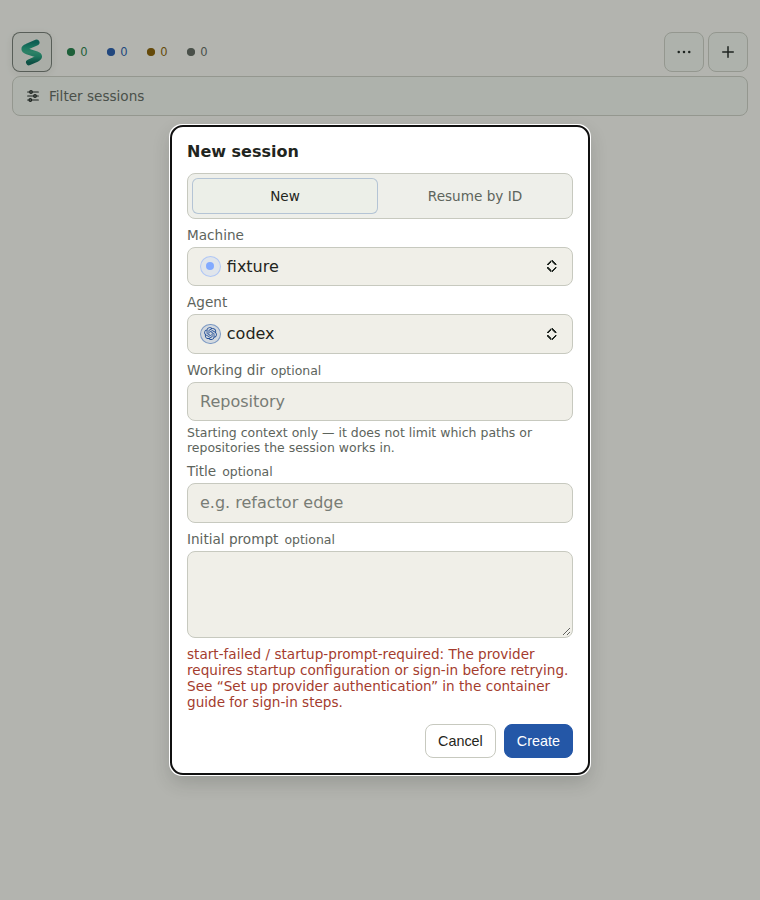
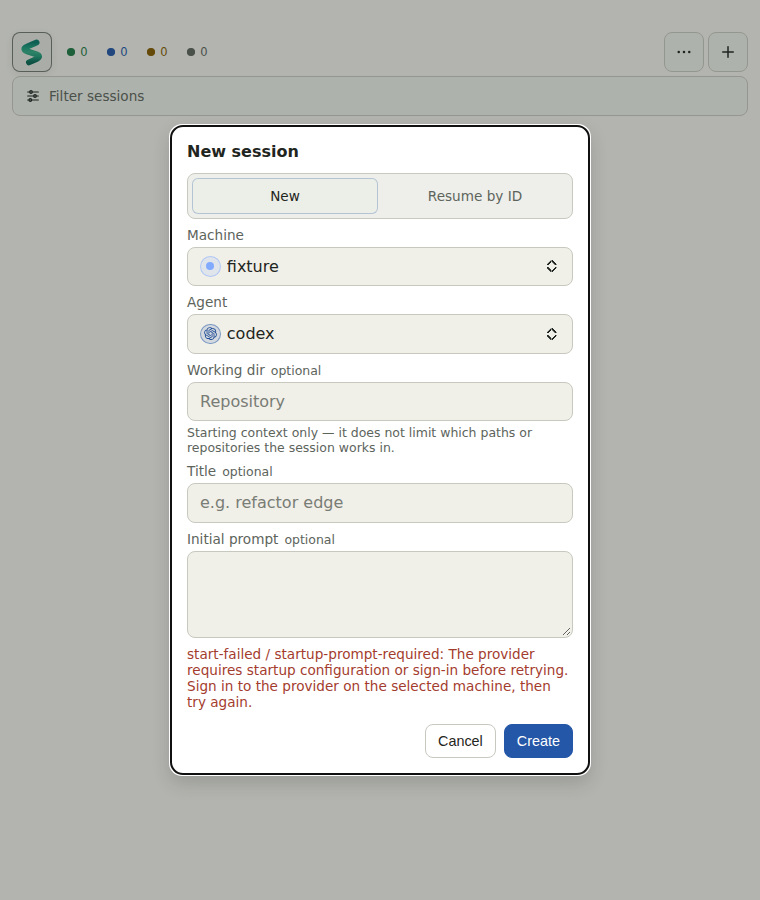
fix(ui): clarify provider sign-in guidance
- Direct users to the selected machine and refresh the corresponding browser captures.

Changed region(s): [[0.2421, 0.7467, 0.7263, 0.8089]]

diff --git a/packages/ui/test/createStartRefusal.browser.test.ts b/packages/ui/test/createStartRefusal.browser.test.ts
@@ -97,7 +97,7 @@ test("Dashboard shows a definite start refusal and allows a new session", async 
       assert.deepEqual({ unknown: measured.unknown, newDisabled: measured.newDisabled, stopped: measured.stopped },
         { unknown: false, newDisabled: false, stopped: false });
       assert.ok(measured.errorText.includes(message), "the daemon message is visible");
-      assert.match(measured.errorText, /Set up provider authentication.*container guide.*sign-in/);
+      assert.match(measured.errorText, /Sign in to the provider on the selected machine, then try again\./);
       assert.equal(measured.readable, true, "the refusal fits without horizontal clipping");
     });
   }

diff --git a/packages/ui/src/api.ts b/packages/ui/src/api.ts
@@ -1150,7 +1150,7 @@ export async function createSession(
       : undefined;
     const definiteRefusal = errorCode === "start-failed" && refusal !== undefined;
     const refusalMessage = definiteRefusal && details?.reason === "startup-prompt-required"
-      ? `${refusal} See “Set up provider authentication” in the container guide for sign-in steps.`
+      ? `${refusal} Sign in to the provider on the selected machine, then try again.`
       : refusal;
     const failure = {
       ...result,
